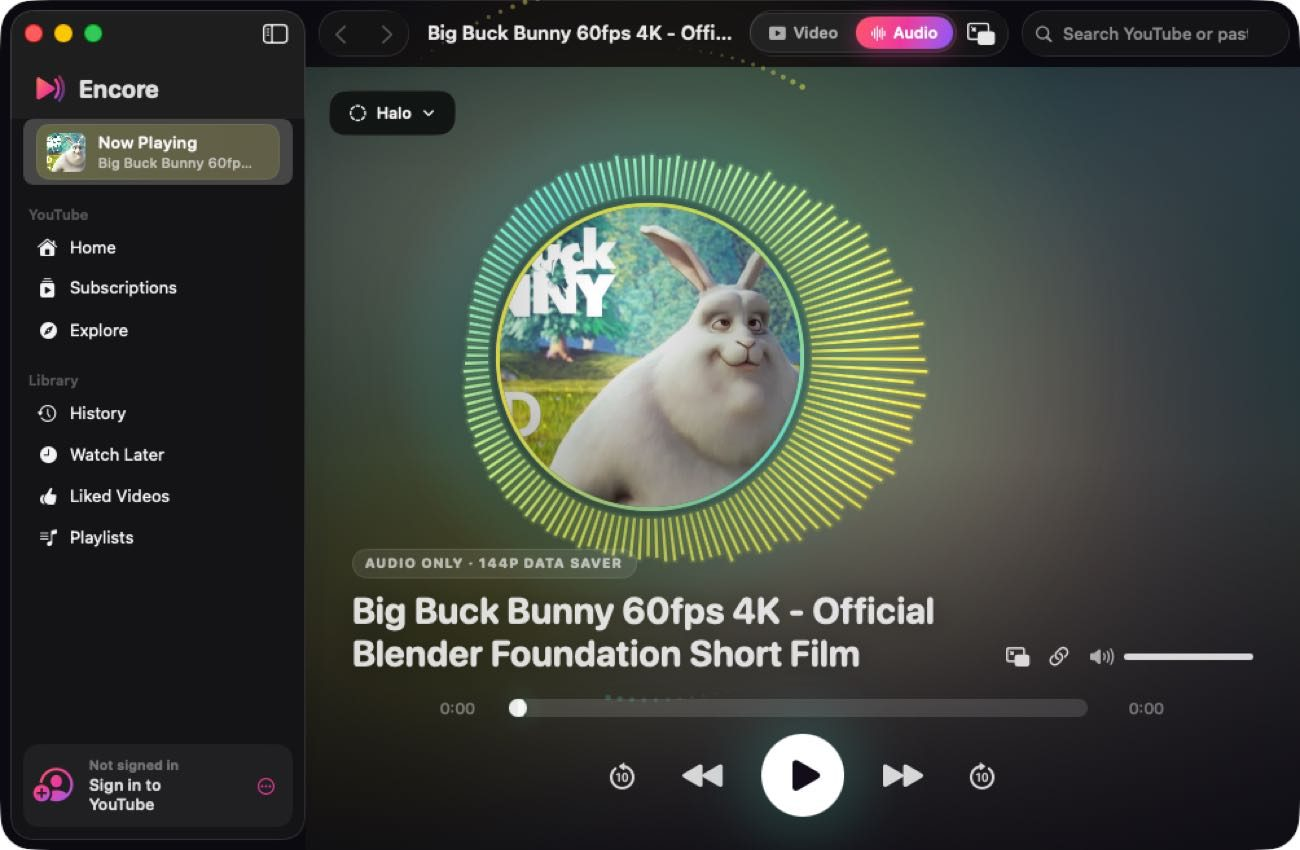
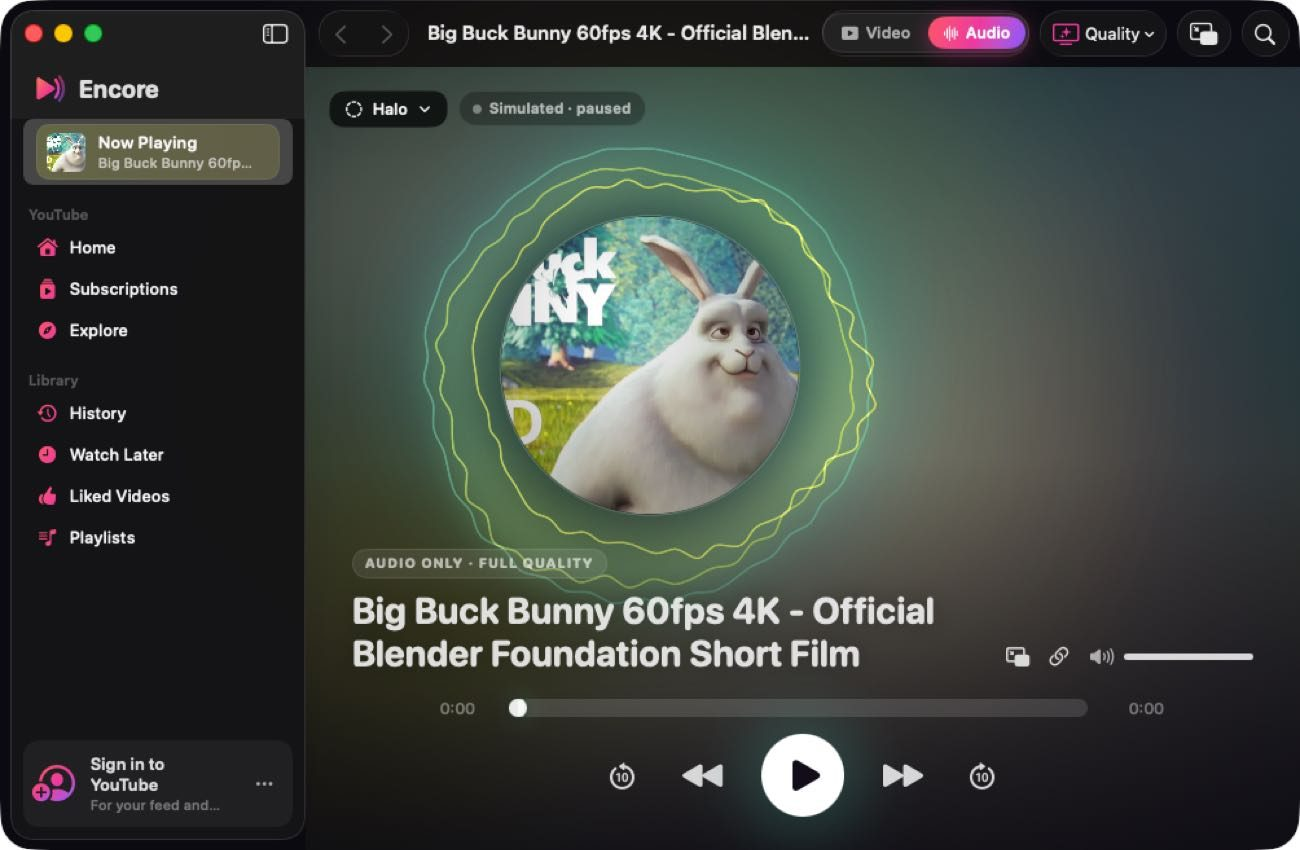
README and release notes: new visualisers, audio permission, quality
Claude-Session: https://claude.ai/code/session_01Dq9uaYLZ14tYd3nuL5CVKq

diff --git a/README.md b/README.md
@@ -2,19 +2,20 @@
 
 <h1 align="center">Encore</h1>
 <p align="center"><b>A native YouTube player for macOS.</b><br>
-Media keys always work, even with every window closed. Video and audio modes, ten live visualisers, a menu bar player and a floating mini player.</p>
+Media keys always work, even with every window closed. Video and audio modes at the highest quality YouTube offers, eight calm visualisers that move with the music, a menu bar player and a floating mini player.</p>
 
 ---
 
 <p align="center">
-  <img src="docs/screenshots/audio-voxels.jpg" width="49%" alt="Audio mode with the Voxels visualiser">
-  <img src="docs/screenshots/audio-halo.jpg" width="49%" alt="Audio mode with the Halo visualiser">
+  <img src="docs/screenshots/audio-aurora.jpg" width="49%" alt="Audio mode with the Aurora visualiser">
+  <img src="docs/screenshots/audio-silk.jpg" width="49%" alt="Audio mode with the Silk visualiser">
+  <img src="docs/screenshots/audio-orb.jpg" width="49%" alt="Audio mode with the Orb visualiser">
   <img src="docs/screenshots/audio-tide.jpg" width="49%" alt="Audio mode with the Tide visualiser">
-  <img src="docs/screenshots/audio-vortex.jpg" width="49%" alt="Audio mode with the Vortex visualiser">
 </p>
 <p align="center">
-  <img src="docs/screenshots/audio-warp.jpg" width="49%" alt="Audio mode with the Warp visualiser">
-  <img src="docs/screenshots/audio-contours.jpg" width="49%" alt="Audio mode with the Contours visualiser">
+  <img src="docs/screenshots/audio-halo.jpg" width="49%" alt="Audio mode with the Halo visualiser">
+  <img src="docs/screenshots/audio-spectrum.jpg" width="49%" alt="Audio mode with the Spectrum visualiser">
+  <img src="docs/screenshots/video-mode.jpg" width="49%" alt="Video mode with the details drop-down">
 </p>
 <p align="center"><img src="docs/screenshots/menu-bar.jpg" width="300" alt="Menu bar player"></p>
 <p align="center"><sub>Real captures of Encore on macOS 26. They were taken by the CI smoke test on a small virtual display, with the visualisers in demo mode, because YouTube won't stream to datacenter machines. Colours come from the video's artwork.</sub></p>
@@ -34,8 +35,8 @@ Encore fixes that:
 | | |
 |---|---|
 | **Video mode** | The video fills the window (cinema layout). Toggle back to the full YouTube page for comments and descriptions. |
-| **Audio mode** | Hides the video and asks YouTube for 144p (configurable) to save data. Audio quality stays the same. The screen shows a full-bleed visualiser over a blurred backdrop taken from the video's artwork. |
-| **10 visualisers** | **3D (Metal):** Voxels, Tide, Warp, Vortex, Contours. **2D (SwiftUI Canvas):** Halo, Spectrum, Waves, Nebula, Ridgeline. All of them react to a live frequency analysis of the audio and take their colours from the artwork. |
+| **Audio mode** | Hides the video and keeps streaming at the highest quality YouTube offers, which brings its best audio too. A 144p data saver is available if you want it. The screen shows a full-bleed visualiser over a blurred backdrop taken from the video's artwork. |
+| **8 visualisers** | **GPU (Metal):** Aurora, Silk, Orb, Tide. **2D (SwiftUI Canvas):** Halo, Spectrum, Waves, Ridgeline. All of them follow a live frequency analysis of the sound Encore is playing, take their colours from the artwork, and move calmly. A badge shows **Live audio** or **Simulated**. |
 | **Menu bar player** | Artwork, a live mini spectrum, scrubber, controls, the Video/Audio switch and volume. Optionally shows the track title in the menu bar. |
 | **Mini player** | A floating, always-on-top panel (⇧⌘P). It shows the video in video mode and the visualiser in audio mode. |
 | **Your YouTube** | Sign in once to get your home feed, subscriptions, history, Watch Later, liked videos and playlists. Native search with suggestions. You can paste any YouTube link. |
@@ -100,7 +101,7 @@ To work on it in Xcode, open `Package.swift`.
 │  BrowserEngine (WKWebView)        PlayerEngine (WKWebView)   │
 │  feeds, search, channels  ──play─▶  one long-lived player     │
 │  never plays media                   JS bridge ⇄ Swift state  │
-│                                      Web Audio analyser ──┐   │
+│  AudioTap (Core Audio tap on Encore's WebKit audio) ─┐   │
 │  NowPlayingCenter ◀── state ──────────────┘               │   │
 │  MPRemoteCommandCenter / MPNowPlayingInfoCenter            │   │
 │                                                            ▼   │
@@ -112,9 +113,9 @@ To work on it in Xcode, open `Package.swift`.
 - **`Core/Scripts.swift`** holds the injected JavaScript. It:
   - keeps the page "visible" so YouTube never throttles it;
   - takes over `navigator.mediaSession` so each key press acts exactly once;
-  - streams log-spaced spectrum bands from a Web Audio `AnalyserNode` (MediaSource playback only, so the audio is never muted);
   - applies quality, cinema layout and ad skipping;
   - in the browser view, blocks playback and forwards video clicks to the player.
+- **`Core/AudioTap.swift`** listens to the sound Encore plays. WebKit plays YouTube's audio in a helper process, and its Web Audio API returns silence for YouTube streams, so Encore uses a Core Audio process tap (macOS 14.2+) on its own WebKit helper and analyses it with an Accelerate FFT. macOS asks once for "System Audio Recording" permission. The tap only listens, and nothing is recorded or saved.
 - **`Core/NowPlayingCenter.swift`** handles media keys, the Now Playing widget and App Nap prevention while playing.
 - **`Core/WebKitFactory.swift`** sets up the shared cookie store, a Safari user agent that matches the running OS, and `inactiveSchedulingPolicy = .none`. Its `WebViewParking` keeps detached web views alive in an invisible window, so playback survives window closes.
 - **`UI/Visualizers/`** contains the Canvas painters (2D), the Metal scenes (runtime-compiled MSL, with no `.metallib` needed) and the shared `VisualizerEngine`. When the analyser is unavailable (live streams), a tempo-locked simulation keeps the visualisers moving.

diff --git a/docs/RESEARCH.md b/docs/RESEARCH.md
@@ -36,7 +36,7 @@ The most thoughtful native client, though it covers YouTube Music only and needs
 
 ### VoxelWall (visual inspiration)
 - These are music-reactive live wallpapers for Mac, built as real-time 3D scenes: extruded voxel terrain, point-cloud "cloth" seas, warp tunnels, vortex storms and topographic contours.
-- Encore's GPU scenes (Voxels, Tide, Warp, Vortex, Contours) are original shaders written in that spirit.
+- Encore's GPU scenes (Aurora, Silk, Orb, Tide) are original shaders. They take the idea of music-reactive scenes and aim for something calmer.
 
 ## What Encore takes and adds
 
@@ -48,7 +48,7 @@ The most thoughtful native client, though it covers YouTube Music only and needs
 | Safari UA | Kaset | The version suffix matches the running macOS |
 | Visibility spoof | common wrappers | No throttling or "paused" dialogs while hidden; `inactiveSchedulingPolicy = .none` |
 | Ad skip, still-watching | Pear | It clicks YouTube's own Skip button and confirm dialog |
-| Visualiser | Pear, VoxelWall | Ten styles fed by a Web Audio analyser, which needs no extra permission, with a synthetic fallback |
+| Visualiser | Pear, VoxelWall, Kaset (audio tap) | Eight calm styles fed by a Core Audio tap on Encore's own WebKit audio (Web Audio returns silence for YouTube in WebKit), with a gentle simulation as fallback |
 | Mini player / PiP | Clicker | A floating panel that adopts the live player view |
 | Two web views | new | Browsing never interrupts playback |
-| Audio mode data saver | new | 144p video stream; YouTube's audio quality is independent of video resolution |
+| Audio mode | new | The video is hidden while the stream stays at the highest quality for the best audio; a 144p data saver is optional |
